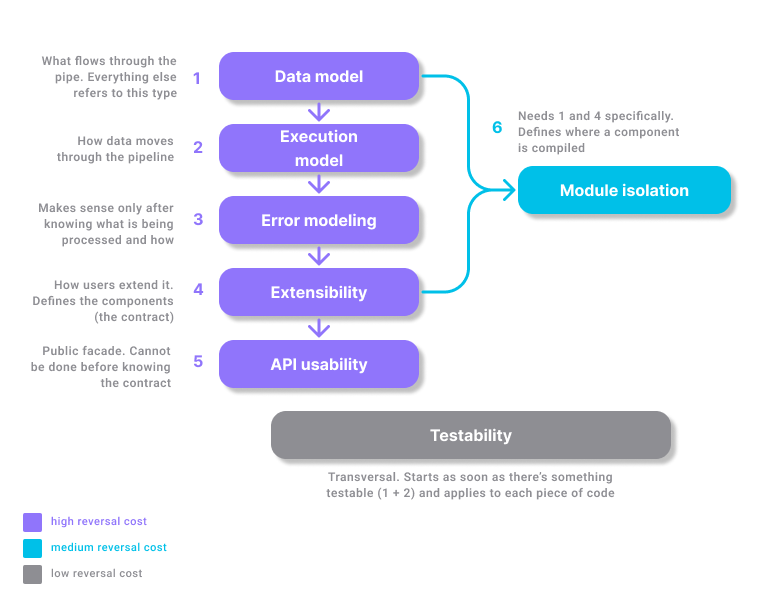
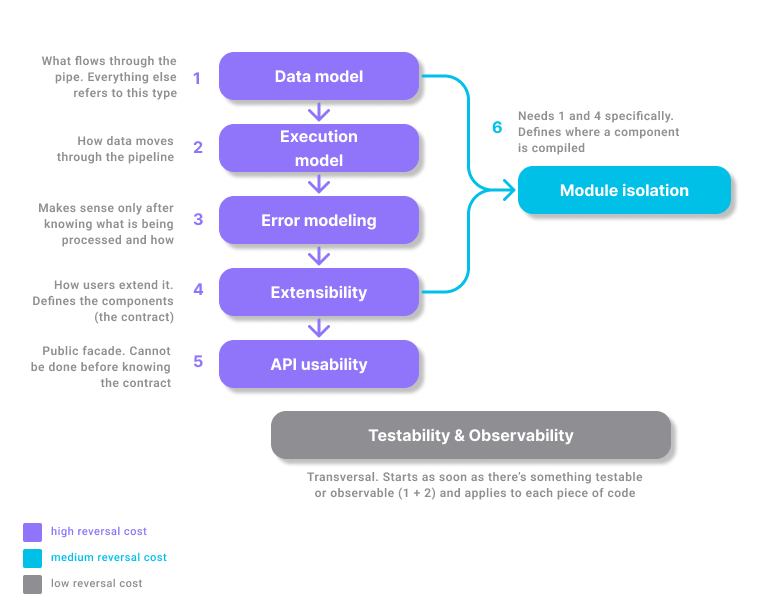
docs: add error taxonomy split and observability to decisions map

Changed region(s): [[0.3945, 0.7723, 0.8496, 0.8317], [0.0303, 0.8317, 0.2124, 0.9802], [0.4855, 0.7129, 0.7586, 0.7426]]

diff --git a/docs/architecture/decisions-map.md b/docs/architecture/decisions-map.md
@@ -1,8 +1,8 @@
-# Decisions (ADRs) backlog
+# Decisions (ADRs) map
 
-This backlog maps the architectural drivers (see `architectural-drivers.md`) to the set of significant design decisions the project needs to make. Decisions are grouped by topic rather than by driver, since a single decision can respond to more than one driver, and a single driver can generate more than one decision. Each entry lists its originating driver(s) or section(s), plus a short description of the concrete decision it covers. No decision is resolved here: each one will later become its own ADR, numbered once the order of work is set.
+This document maps the architectural drivers (see `architectural-drivers.md`) to the set of significant design decisions the project needs to make, in the order they need to be answered, and tracks their current status. Decisions are grouped by topic rather than by driver, since a single decision can respond to more than one driver, and a single driver can generate more than one decision. Answers live in individual ADRs under `docs/adr/`.
 
-## Data model
+## Data model [resolved]
 
 ### Conceptual level
 
@@ -15,28 +15,27 @@ Going one level deeper, from functional drivers 2 and 3 we can derive that the t
 
 **Open:** how this dynamic type stores its data internally (map-based vs. vector-based field storage, for example). *Deferred to implementation, not needed to make the data model decision itself.*
 
-## Execution model
+## Execution model [resolved]
 Functional driver 5 states that the library must be able to handle unbounded or arbitrarily large data. The use cases include logs and sensor streams that, in principle, never end. This means the incoming data cannot be assumed to fit in memory as a whole. Deciding how the pipeline moves data from stage to stage opens three questions, to be answered in sequential order as each one conditions the next:
 
-**Open:** Whether the tool processes one record at a time, or a group of records (batch).
+**Open:** whether the tool processes one record at a time, or a group of records (batch).
 **Open:** whether the consumer pulls records from the producer, or the producer pushes records to the consumer.
 **Open:** whether a call requesting the next record is blocking or asynchronous.
 
-## Error modeling & handling
-As the project's context highlights, this is meant to be a production-ready deliverable, meaning it will run against real-world input, which will very likely contain inconsistencies: misspelled fields, corrupted rows, missing separators, files that don't exist, etc. All the expected input sources (CSV, JSON and sensor messages, logs) are imperfect in practice.
+## Errors [in-progress]
+As the project's context highlights, this is meant to be a production-ready deliverable, meaning it will run against real-world input, which will very likely contain inconsistencies: misspelled fields, corrupted rows, missing separators, files that don't exist, etc. All the expected input sources (CSV, JSON and sensor messages, logs) are imperfect in practice. Two situations already come from the current scope: errors raised while the pipeline is being built (an invalid configuration) and errors raised while data flows through it (a corrupted row). Whether they are two classes, one, or more, is part of the taxonomy decision. The category splits into three decisions.
 
-At least two different classes of error need to be distinguished (not yet decided which policy applies to which, deferred to the dedicated ADR):
+**Open:** which classes of error the model recognizes (taxonomy). *Not resolved here.*
 
-- **Configuration errors**: e.g. the input file doesn't exist, the pipeline has no sink. These look like programming mistakes, not data problems.
-- **Data errors**: e.g. a single row is corrupted or has the wrong type in a field. These are expected in production, and the pipeline needs some policy for them (stop everything? skip the row? route it elsewhere for later inspection?).
+**Open:** how each class is represented in the type system (modeling). *Not resolved here.*
 
-### Error modeling
-**Open:** how each error class is represented in the type system (exceptions vs. some `Result`-like return type). *Not resolved here, this document only scopes the question.*
+**Open:** what runtime behavior each class triggers (handling), and whether the policy is global to the pipeline or configurable per component. *Not resolved here.*
 
-### Error handling
-**Open:** what runtime behavior each error class triggers (fail fast vs. skip vs. route to a separate destination). *Not resolved here, this document only scopes the question.*
+## Observability [pending]
+The conceptual model marks `errors & logs` as a transversal concern observable from outside the library. Whether the library emits its own log stream, and what shape the final execution report takes, are open decisions separate from the error model. Deferred to their own sessions.
 
-## Extensibility
+
+## Extensibility [pending]
 Functional drivers 1 and 3, together with quality attribute 1 (extensibility), define decoupling as the core design principle here. Driver 1 lets the user add their own components for the data types they need in their own workflow. Driver 3 lets them compose those (and the library's own) components into a pipeline at runtime, without recompiling, via configuration.
 
 This is about how a user adds a brand new component, not about isolating heavy dependencies (see Module isolation below).
@@ -45,17 +44,17 @@ This is about how a user adds a brand new component, not about isolating heavy d
 
 **Open:** is cutting the byte stream into record-sized chunks part of deserialization, or a responsibility of its own that comes before it? Unbounded input cannot wait for the end of the stream to be split. *Not resolved here, this document only scopes the question.*
 
-## API usability
+## API usability [pending]
 From quality attribute 3. The design must put the user first: the heaviest part of the work happens backstage, so the user only configures what's strictly necessary. The interface should make common mistakes hard to make. Configuration validation happens in one single place before anything runs. Components ship with sensible defaults that the user can override, which also double as usage examples.
 
 **Open:** who decides the input format (CSV, JSON, log lines): the user at configuration time, or the tool by inspecting the data? Not every input is a file with an extension to rely on. *Not resolved here, this document only scopes the question.*
 
 **Open:** when a format allows more than one possible cut (a JSON array read as one record or as many), who decides: the user at configuration time, or the tool at run-time? *Not resolved here, this document only scopes the question.*
 
-## Module isolation
+## Module isolation [pending]
 Functional driver 4, together with the constraint that AWS integration will arrive in later stages, make this decision straightforward: the library's components must be built as separate, independently buildable modules, and heavy dependencies must be optional. In particular the AWS SDK, which is heavy enough to slow down compilation and increase the footprint for users who don't need it.
 
-## Testability
+## Testability [in-progress]
 From quality attributes 2 (testability) and 1 (extensibility). Quality attribute 2 states that testability is made cheap by the decoupling that extensibility already demands. The testing tools themselves are already fixed by the project's constraints (GoogleTest/GMock). What this category decides is the shape components must have for those tools to work well against them: internal interfaces must stay minimal, so the surface to mock stays small and every use case (error policies, call order, edge cases) can be tested in isolation without touching disk or network.
 
 ## Dependency sequencing
@@ -66,11 +65,12 @@ From quality attributes 2 (testability) and 1 (extensibility). Quality attribute
 |---|---|---|
 | Data model | High | It's the type flowing through the entire public API; changing it breaks interfaces, third-party components, and the error model. |
 | Execution model | High | The stage contracts encode whether records arrive one at a time or in bulk; changing that later reshapes the contracts, not just the internal implementation. |
-| Error modeling & handling | High | Swapping Result<T> for exceptions (or vice versa) touches all code, including third-party components already written against it. |
+| Error | High | Swapping Result<T> for exceptions (or vice versa) touches all code, including third-party components already written against it. |
 | Extensibility | High | Defines the contract any component (own or third-party) must satisfy; changing it breaks everything already written against that contract. |
 | API usability | High | It's the public-facing surface; changing it directly inconveniences users already relying on it. |
 | Module isolation | Medium | Reversible (it's a matter of directory/target organization), but costly if delayed: reorganizing existing modules and CMakeLists takes real work, though it doesn't break usage contracts. |
 | Testability | Low | Not a decision with content of its own — it's a consequence of how the other decisions are designed. Can be applied at any point with no real reversal cost. |
+| Observability | Low | Adds channels the outside can consume; does not change the contract components speak. Can be introduced later without breaking anything already written against the pipeline. |
 
 
 ### Dependencies graph
@@ -81,9 +81,9 @@ From quality attributes 2 (testability) and 1 (extensibility). Quality attribute
 
 1. **Data model** — no dependencies. Defines the type that flows through the pipeline; every other decision references it.
 2. **Execution model** — depends on (1). You can't decide how data moves without first knowing what that data is.
-3. **Error modeling & handling** — depends on (2). How an error is modeled and handled depends on whether records are processed one at a time or in bulk, which is exactly what decision (2) settles.
+3. **Errors** — depends on (2). How an error is modeled and handled depends on whether records are processed one at a time or in bulk, which is exactly what decision (2) settles.
 4. **Extensibility** — depends on (1), (2), (3). A user-defined component must fit into the pipeline, which already determines what it receives (1), when it's called (2), and what an error looks like (3).
 5. **API usability** — depends on (4). The public-facing builder can only be designed once the underlying components and their contract already exist.
 6. **Module isolation** — depends on (1) and (4) specifically, not (2) or (3). You need to know what kinds of components exist (1) and how a user adds their own (4) to decide which compilation module each one belongs to. Execution model and error handling don't affect where a component physically lives.
 
-> **Testability** is not part of the sequence — it's a transversal practice. It starts as soon as something testable exists (once 1 and 2 have a first shape) and re-applies to every piece of code added afterward, rather than occupying a fixed position.
+> **Testability & Observability** - both transversal, not part of the sequence. They start as soon as something testable/observable exists (once 1 and 2 have a first shape) and re-apply to every piece of code added afterward, rather than occupying a fixed position.
